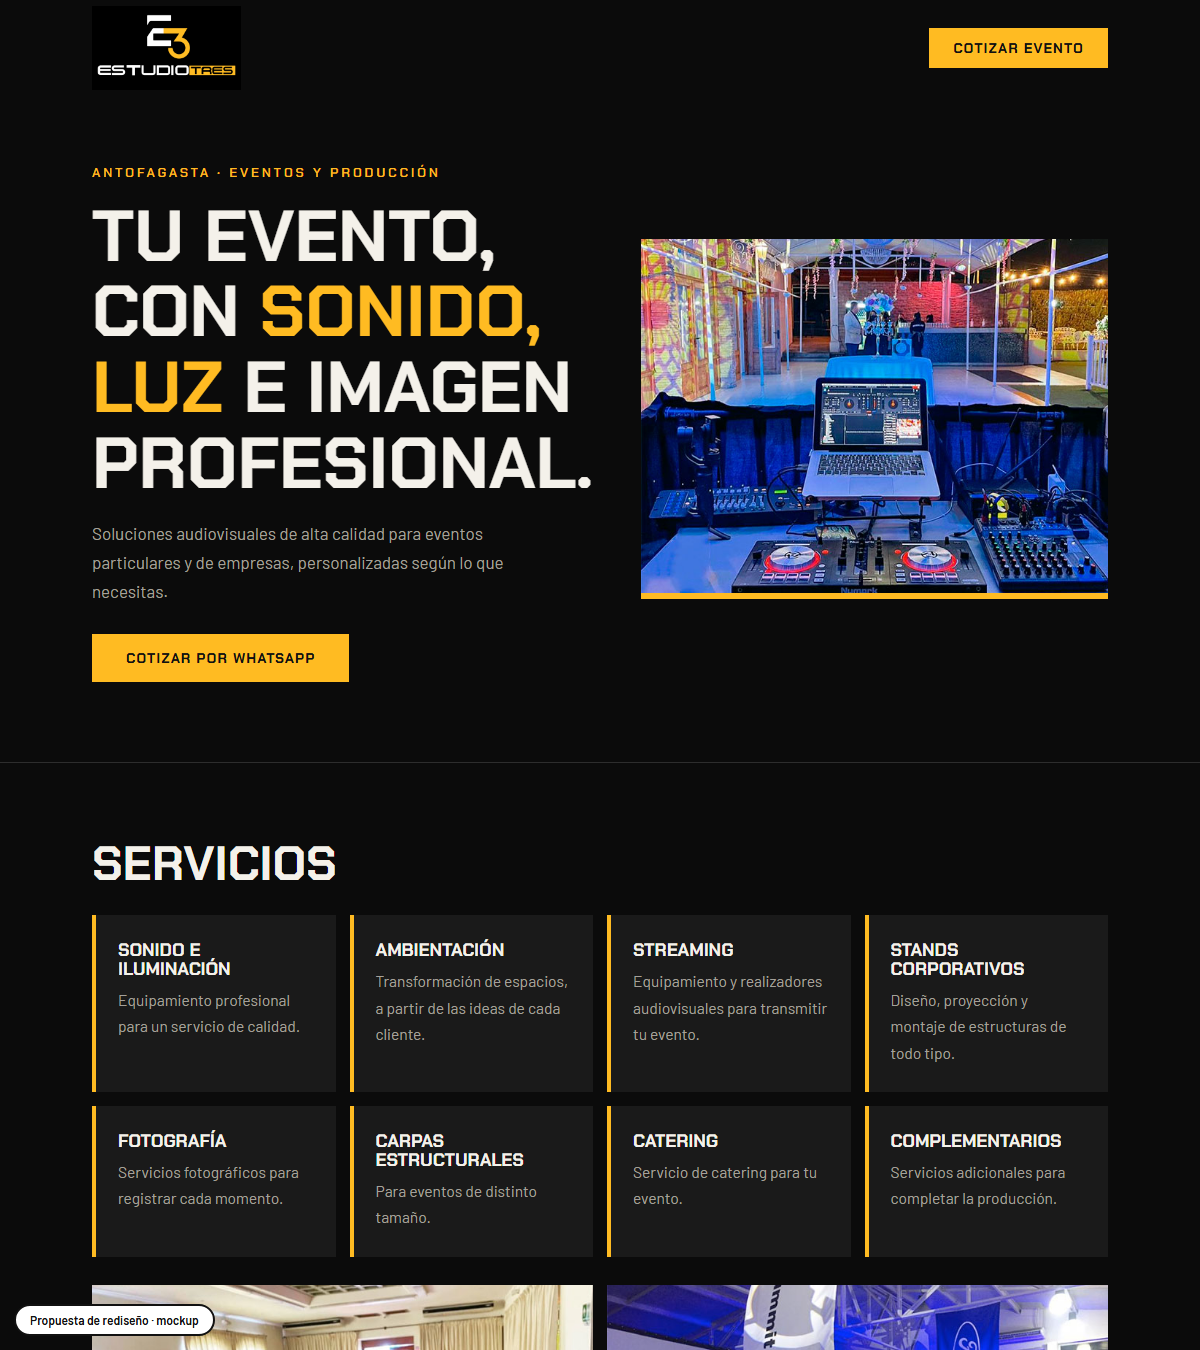
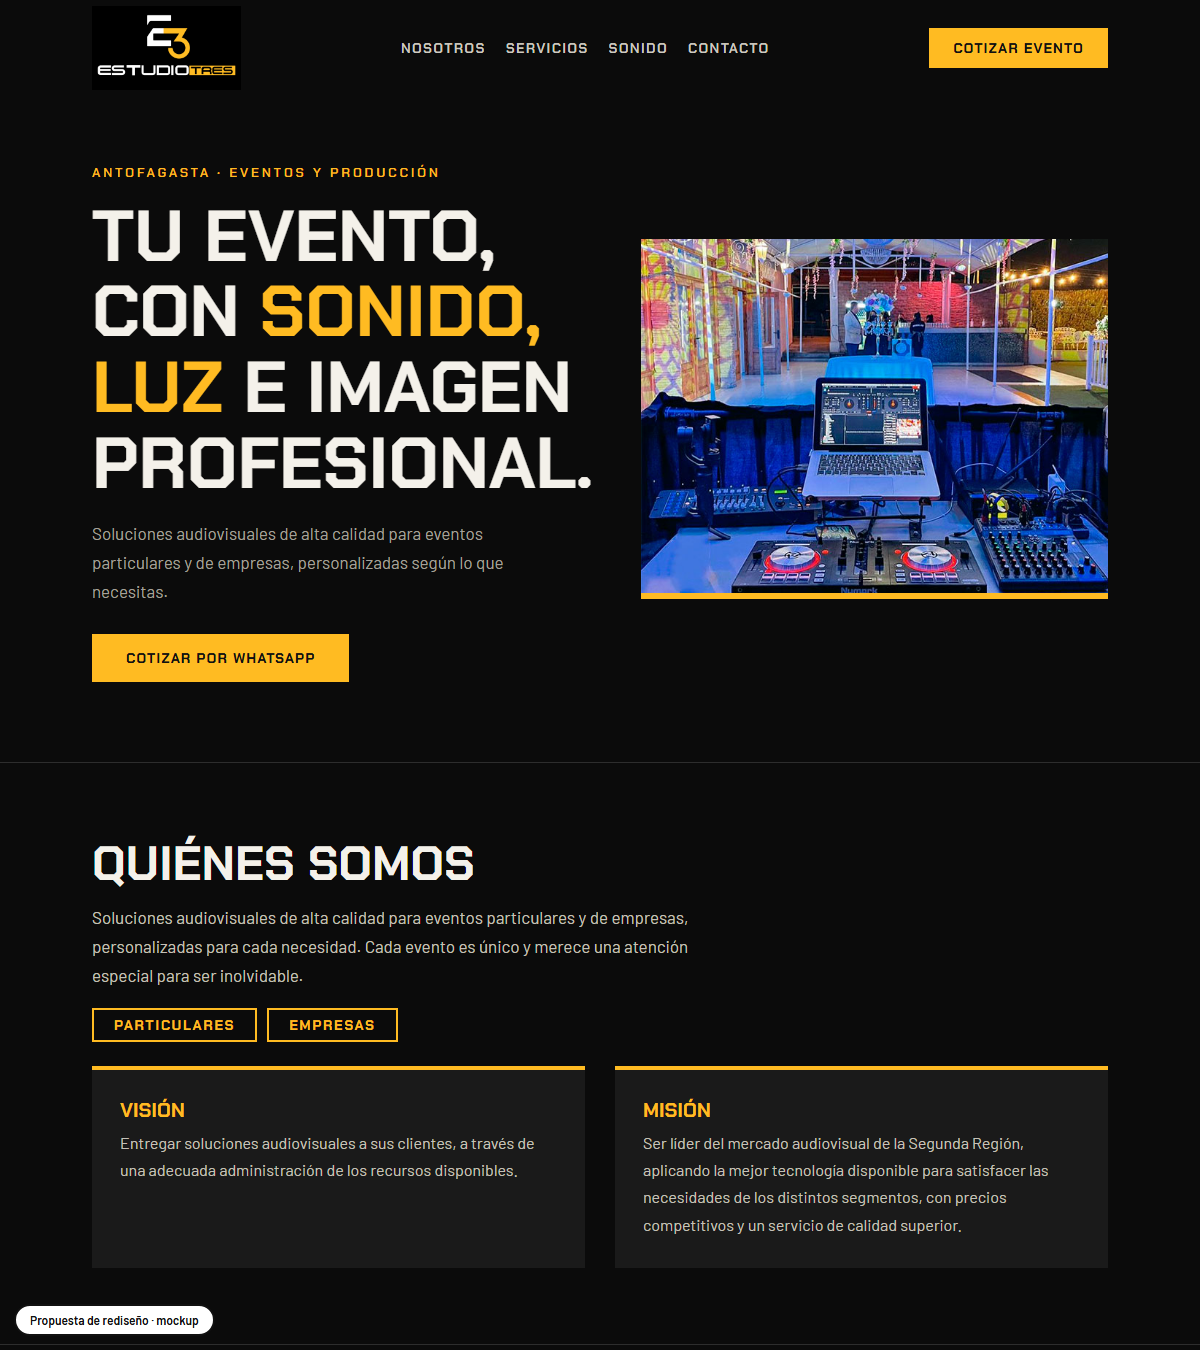
Mockup: estudio-tres-antofagasta

diff --git a/estudio-tres-antofagasta/index.html b/estudio-tres-antofagasta/index.html
@@ -6,7 +6,7 @@
 <link href="https://fonts.googleapis.com/css2?family=Chakra+Petch:wght@500;600;700&family=Barlow:wght@400;500;600&display=swap" rel="stylesheet">
 <style>
 :root{--black:#0b0b0b;--amber:#ffbb22;--ink:#f4f1ea;--g:#1a1a1a;--line:#2d2d2d;--mute:#a4a09a}
-*{box-sizing:border-box;margin:0}html{scroll-behavior:smooth}
+*{box-sizing:border-box;margin:0}html{scroll-behavior:smooth;scroll-padding-top:100px}
 @media(prefers-reduced-motion:reduce){html{scroll-behavior:auto}}
 body{background:var(--black);color:var(--ink);font:400 17px/1.7 Barlow,sans-serif}
 .wrap{max-width:1060px;margin:0 auto;padding:0 22px}
@@ -30,22 +30,23 @@ section{padding:76px 0;border-top:1px solid var(--line)}h2{font-size:clamp(28px,
 .contact{background:var(--amber);color:#111;text-align:center}.contact h2{color:#111}
 .contact a.l{display:block;font:700 clamp(32px,6vw,62px) 'Chakra Petch';color:#111;text-decoration:none;margin:8px 0}.contact a.l:hover{color:#fff}
 footer{padding:22px 0 90px;text-align:center;font:600 12px 'Chakra Petch';letter-spacing:.2em;color:var(--mute)}
-.mock{position:fixed;left:14px;bottom:14px;background:#fff;color:#111;border:2px solid #111;font:700 12px/1 Barlow;padding:8px 14px;border-radius:30px;z-index:9}
+.mock{z-index:30;position:fixed;left:14px;bottom:14px;background:#fff;color:#111;border:2px solid #111;font:700 12px/1 Barlow;padding:8px 14px;border-radius:30px;z-index:9}
 @media(max-width:860px){.hero .wrap,.ph{grid-template-columns:1fr}.svc{grid-template-columns:1fr 1fr}.hero .wrap{padding:30px 22px 50px}}
 @media(max-width:520px){.svc{grid-template-columns:1fr}}
-</style></head><body>
-<header><div class="wrap"><img src="assets/IMAGOTIPO-FONDO-NEGRO.jpg" alt="Estudio Tres"><a class="b" href="#contacto">Cotizar evento</a></div></header>
+nav{display:flex;gap:20px;font:600 14px "Chakra Petch";letter-spacing:.1em;text-transform:uppercase}nav a{color:#cfcac0;text-decoration:none}nav a:hover{color:var(--amber)}.ab{display:grid;grid-template-columns:1fr 1fr;gap:30px;margin-top:24px}.ab>div{background:var(--g);padding:30px 28px;border-top:4px solid var(--amber)}.ab h3{font-size:20px;margin-bottom:8px;color:var(--amber)}.ab p{color:#c4c0b8;font-size:16px}.tg{display:grid;grid-template-columns:repeat(2,1fr);gap:14px;margin-top:26px}.tg>div{border:1px solid var(--line);padding:26px;background:var(--g)}.tg h3{font-size:22px;margin-bottom:8px}.tg p{color:var(--mute);font-size:16px}.tg ul{list-style:none;padding:0;margin-top:8px}.tg li{padding:3px 0 3px 22px;position:relative;font-size:15px;color:#cfcac0}.tg li:before{content:"";position:absolute;left:0;top:12px;width:10px;height:3px;background:var(--amber)}.seg{display:flex;gap:10px;margin-top:18px;flex-wrap:wrap}.seg span{border:2px solid var(--amber);color:var(--amber);padding:6px 20px;font:700 14px "Chakra Petch";letter-spacing:.12em;text-transform:uppercase}@media(max-width:860px){nav{display:none}.ab,.tg{grid-template-columns:1fr}}</style></head><body>
+<header><div class="wrap"><img src="assets/IMAGOTIPO-FONDO-NEGRO.jpg" alt="Estudio Tres"><nav><a href="#nosotros">Nosotros</a><a href="#servicios">Servicios</a><a href="#sonido">Sonido</a><a href="#contacto">Contacto</a></nav><a class="b" href="#contacto">Cotizar evento</a></div></header>
 <div class="hero"><div class="wrap"><div><small>Antofagasta · Eventos y producción</small><h1>Tu evento, con <span>sonido, luz</span> e imagen profesional.</h1><p>Soluciones audiovisuales de alta calidad para eventos particulares y de empresas, personalizadas según lo que necesitas.</p><a class="btn" href="https://wa.me/56995416779?text=Hola%2C%20quisiera%20cotizar%20un%20evento">Cotizar por WhatsApp</a></div><img src="assets/Mavispa-Producciones-Antofagasta-1.jpg" alt="Consola de sonido y música en un evento"></div></div>
-<section><div class="wrap"><h2>Servicios</h2><div class="svc">
-<div><h3>Sonido e iluminación</h3><p>Equipamiento profesional para un servicio de calidad.</p></div>
-<div><h3>Ambientación</h3><p>Transformación de espacios, a partir de las ideas de cada cliente.</p></div>
-<div><h3>Streaming</h3><p>Equipamiento y realizadores audiovisuales para transmitir tu evento.</p></div>
-<div><h3>Stands corporativos</h3><p>Diseño, proyección y montaje de estructuras de todo tipo.</p></div>
-<div><h3>Fotografía</h3><p>Servicios fotográficos para registrar cada momento.</p></div>
-<div><h3>Carpas estructurales</h3><p>Para eventos de distinto tamaño.</p></div>
-<div><h3>Catering</h3><p>Servicio de catering para tu evento.</p></div>
-<div><h3>Complementarios</h3><p>Servicios adicionales para completar la producción.</p></div></div>
-<div class="ph"><figure><img src="assets/Streaming-en-Antofagasta-Mavispa-Producciones.jpg" alt="Transmisión en vivo de un evento" loading="lazy"><figcaption>Streaming</figcaption></figure><figure><img src="assets/Stand-Corporativo.jpg" alt="Stand corporativo armado en un evento" loading="lazy"><figcaption>Stands corporativos</figcaption></figure></div></div></section>
+<section id="nosotros"><div class="wrap"><h2>Quiénes somos</h2><p style="max-width:64ch;color:#c4c0b8">Soluciones audiovisuales de alta calidad para eventos particulares y de empresas, personalizadas para cada necesidad. Cada evento es único y merece una atención especial para ser inolvidable.</p><div class="seg"><span>Particulares</span><span>Empresas</span></div><div class="ab"><div><h3>Visión</h3><p>Entregar soluciones audiovisuales a sus clientes, a través de una adecuada administración de los recursos disponibles.</p></div><div><h3>Misión</h3><p>Ser líder del mercado audiovisual de la Segunda Región, aplicando la mejor tecnología disponible para satisfacer las necesidades de los distintos segmentos, con precios competitivos y un servicio de calidad superior.</p></div></div></div></section>
+<section id="servicios"><div class="wrap"><h2>Servicios</h2><div class="tg">
+<div id="sonido"><h3>Sonido e iluminación</h3><p>Equipamiento profesional para un servicio de calidad ajustado a tus requerimientos.</p><ul><li>Amplificación profesional de alta definición</li><li>Técnicos de sonido profesionales</li><li>Iluminación de última generación</li><li>Proyección multimedia (data)</li><li>Pantallas LED de 3×2 y 4×3 metros</li></ul></div>
+<div><h3>Ambientación y transformación de espacios</h3><p>Amplia experiencia para aclarar las ideas del cliente y lograr ambientes soñados o corporativos, con luces, mobiliario y recursos de piso y aéreos, donde se necesite.</p></div>
+<div><h3>Streaming</h3><p>Equipamiento y los mejores realizadores audiovisuales a cargo del registro de eventos sociales, corporativos, promocionales y de inducción.</p></div>
+<div><h3>Stands corporativos</h3><p>Personal calificado en el diseño, proyección y montaje de estructuras de todo tipo.</p></div>
+<div><h3>Fotografía</h3><p>Una gama de servicios fotográficos para que tus fotos brillen con estilo, creatividad y profesionalismo.</p></div>
+<div><h3>Carpas estructurales</h3><p>Carpas para eventos de distinto tamaño.</p></div>
+<div><h3>Catering</h3><p>De la mano de un equipo profesional, con exquisitos platos y presentaciones, para eventos íntimos y alimentación colectiva. Con gran infraestructura y resolución sanitaria.</p></div>
+<div><h3>Complementarios</h3><p>Un abanico de servicios que se adapta a las distintas necesidades de cada cliente.</p></div></div>
+<div class="ph" style="margin-top:28px"><figure><img src="assets/Streaming-en-Antofagasta-Mavispa-Producciones.jpg" alt="Transmisión en vivo de un evento" loading="lazy"><figcaption>Streaming</figcaption></figure><figure><img src="assets/Stand-Corporativo.jpg" alt="Stand corporativo armado en un evento" loading="lazy"><figcaption>Stands corporativos</figcaption></figure></div></div></section>
 <section class="contact" id="contacto"><div class="wrap"><h2>Cuéntanos de tu evento</h2><a class="l" href="https://wa.me/56995416779">+56 9 9541 6779</a><p>Av. Balmaceda 2575, Antofagasta<br><a style="color:#111;font-weight:600" href="mailto:contacto@estudiotres.cl">contacto@estudiotres.cl</a></p></div></section>
 <footer>ESTUDIO TRES · ANTOFAGASTA</footer>
 <div class="mock">Propuesta de rediseño · mockup</div></body></html>
